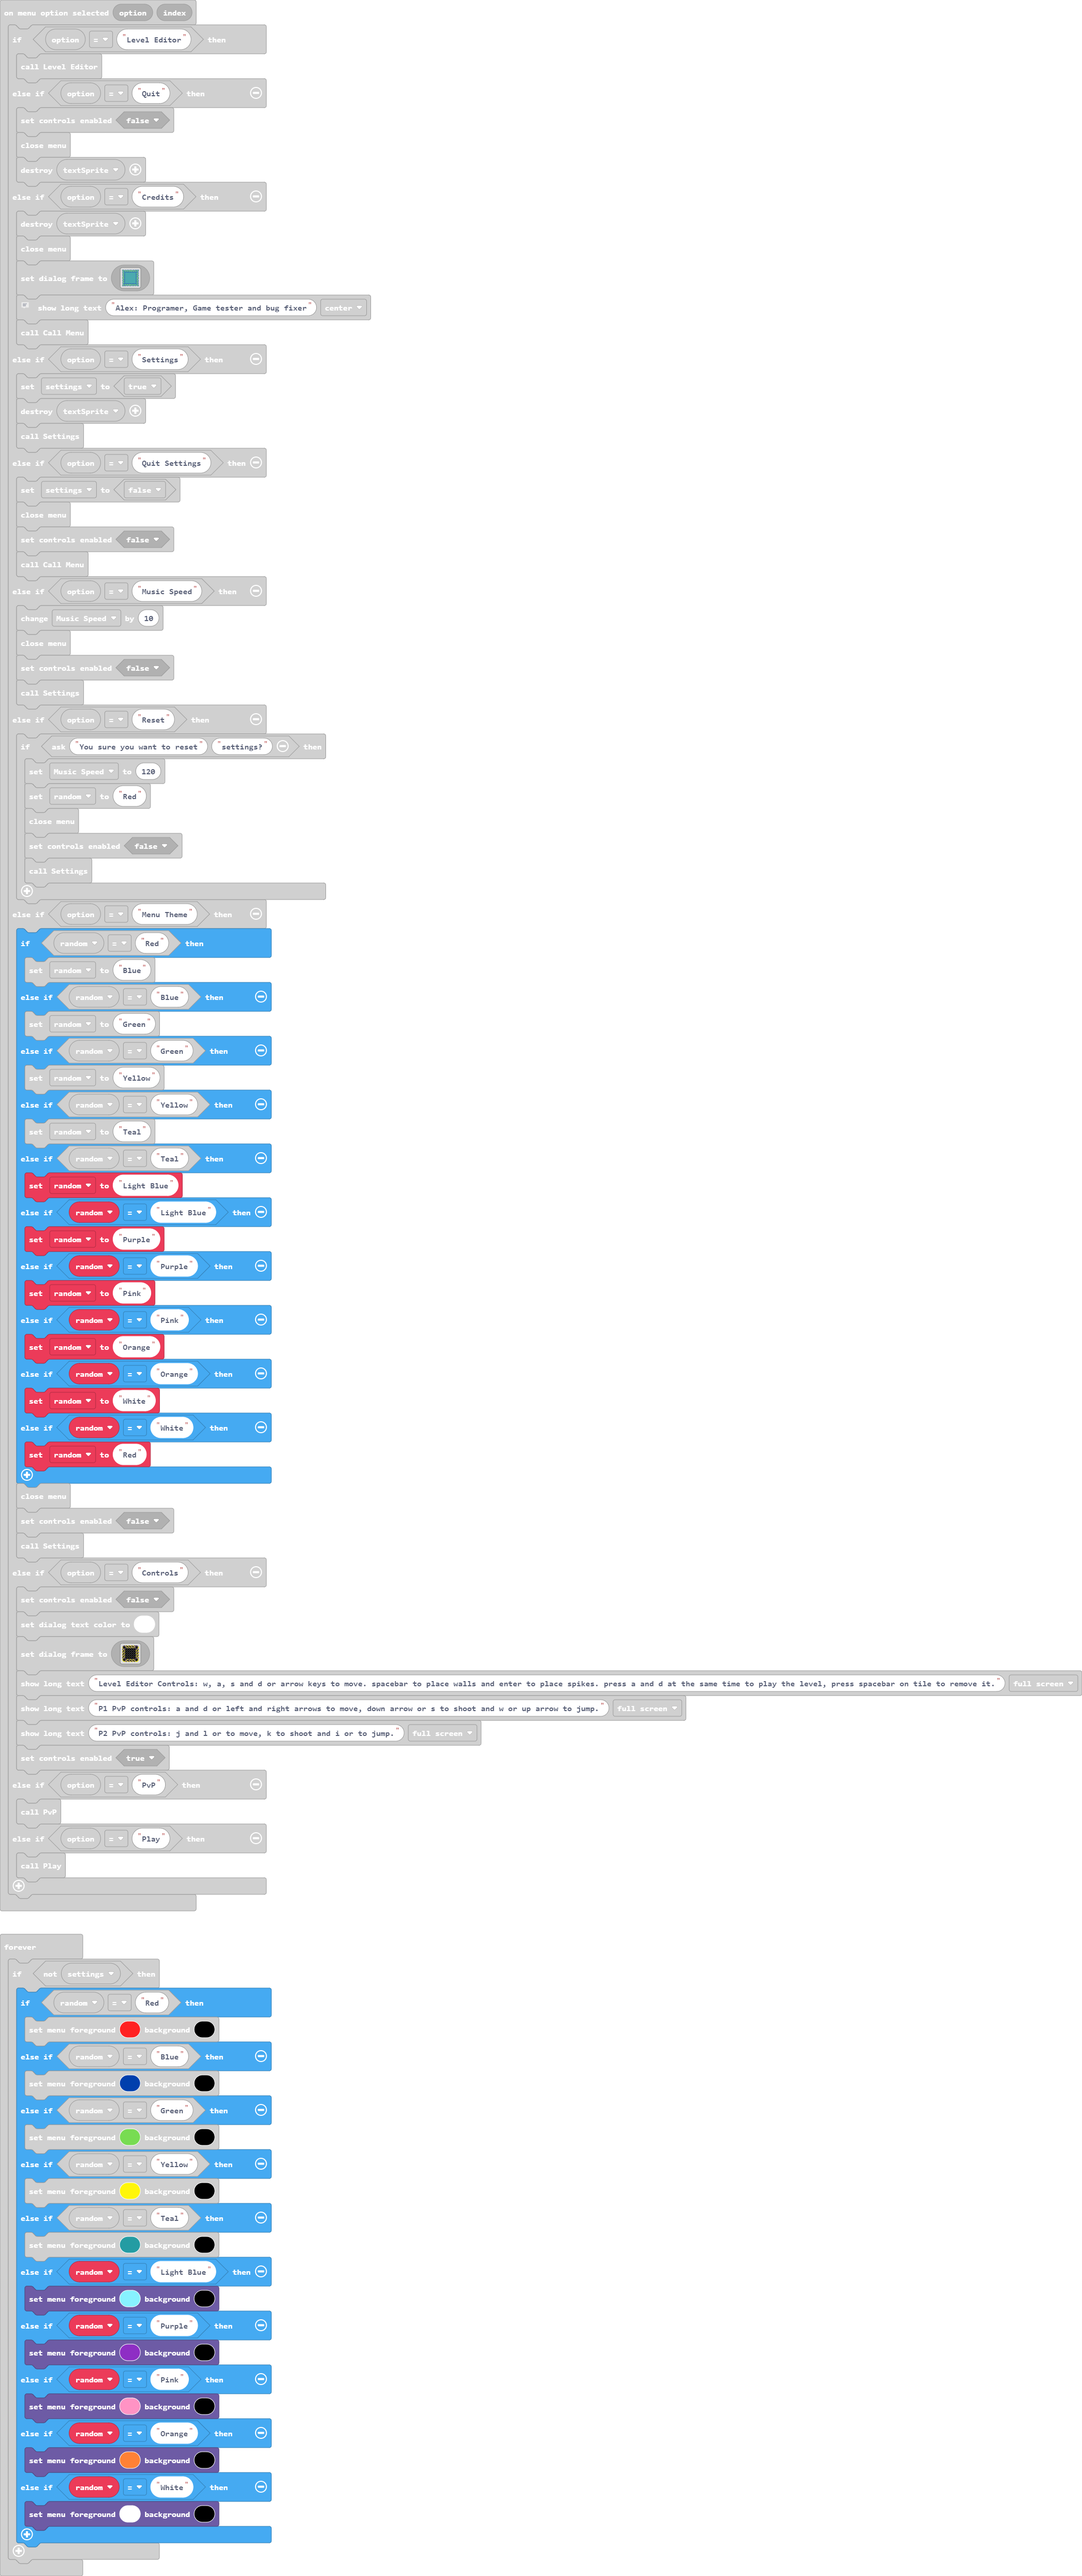
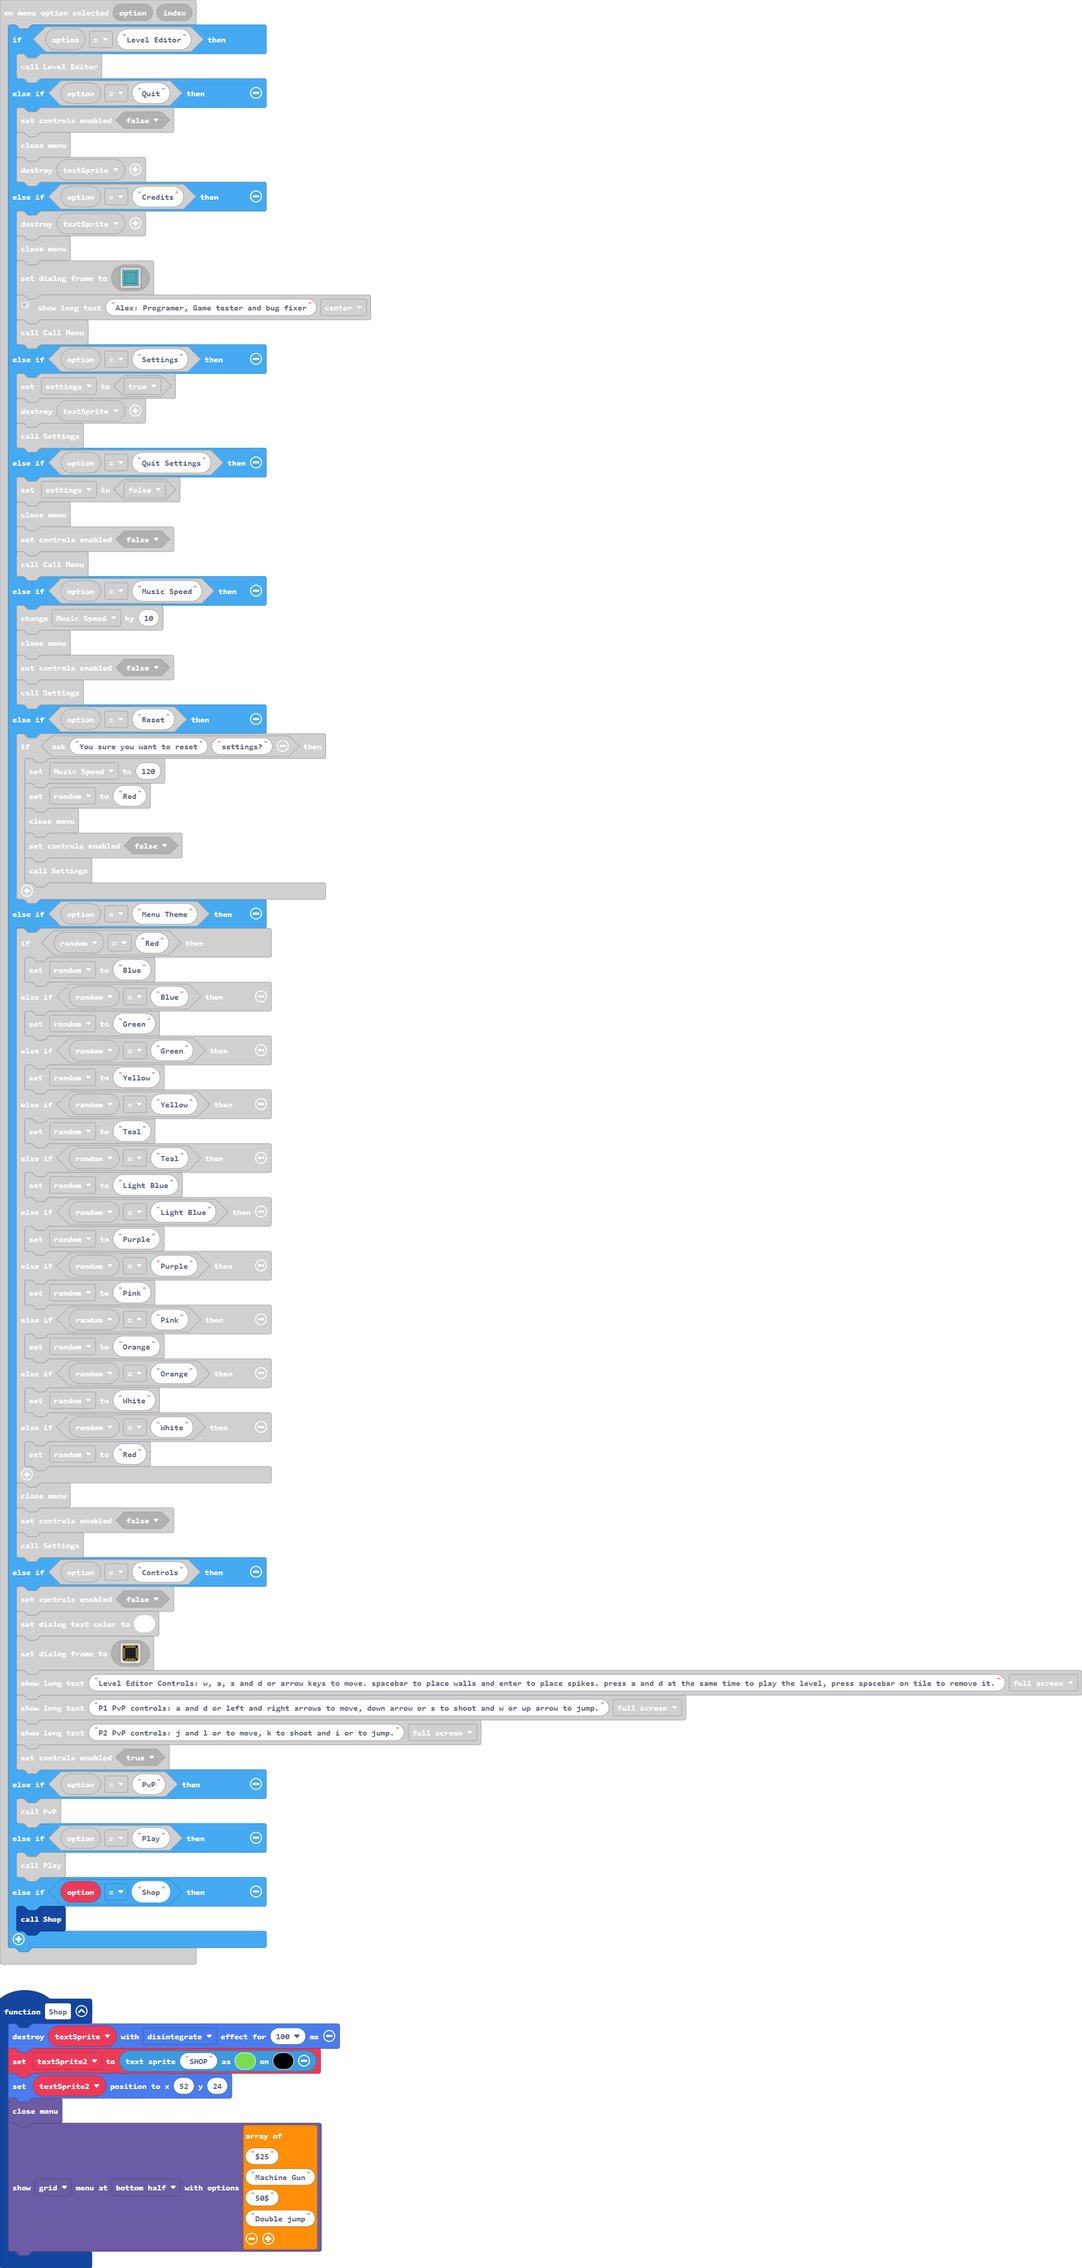
Update main.blocks, main.ts

Changed region(s): [[0.0, 0.0, 0.8393, 1.0], [0.9015, 0.6206, 1.0, 0.6826], [0.8704, 0.7137, 1.0, 0.7447]]

diff --git a/main.ts b/main.ts
@@ -653,6 +653,18 @@ controller.player2.onButtonEvent(ControllerButton.Up, ControllerButtonEvent.Pres
         sprite2.vy = -150
     }
 })
+function Shop () {
+    sprites.destroy(textSprite, effects.disintegrate, 100)
+    textSprite2 = textsprite.create("SHOP", 15, 7)
+    textSprite2.setPosition(52, 24)
+    blockMenu.closeMenu()
+    blockMenu.showMenu([
+    "$25",
+    "Machine Gun",
+    "50$",
+    "Double jump"
+    ], MenuStyle.Grid, MenuLocation.BottomHalf)
+}
 controller.right.onEvent(ControllerButtonEvent.Pressed, function () {
     if (pvp) {
         P1_Direction = 1
@@ -1203,6 +1215,8 @@ blockMenu.onMenuOptionSelected(function (option, index) {
         PvP()
     } else if (option == "Play") {
         Play()
+    } else if (option == "Shop") {
+        Shop()
     }
 })
 function PvP () {
@@ -1360,6 +1374,7 @@ controller.left.onEvent(ControllerButtonEvent.Repeated, function () {
 })
 let settings2 = false
 let projectile: Sprite = null
+let textSprite2: TextSprite = null
 let random2 = 0
 let vx = 0
 let random22 = 0
